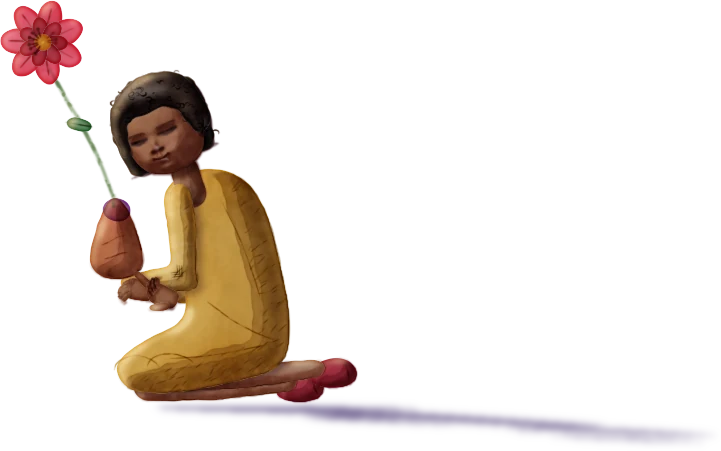
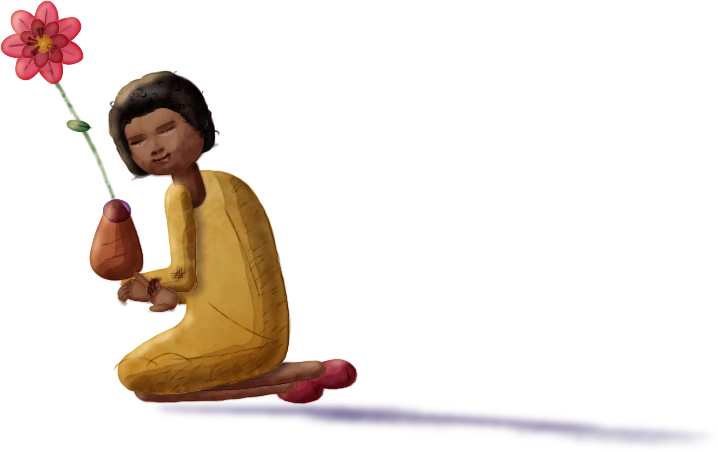
Calendario Arte design 6: last evaluator fixes, changelog and decision
Gaze in sheet directions, a slit of iris for lowered eyes, higher necklines,
the June girl's neck, the bun's tone. Evaluator r11: publishable as design 6
and favourite (June 5.5/6.5, May 5/6).

Claude-Session: https://claude.ai/code/session_01WLMKSDKQCN5ewxoWJ2uMJK

diff --git a/src/data/calendarioArteCapas.ts b/src/data/calendarioArteCapas.ts
@@ -541,43 +541,43 @@ export const CAPAS_ILUSTRACIONES: Record<string, ManifiestoCapas> = {
       {
         "id": "guitarrista",
         "nombre": "El guitarrista",
-        "src": "guitarrista.webp?v=a3c0124a",
-        "x": 0.06385,
+        "src": "guitarrista.webp?v=20d36eb1",
+        "x": 0.06357,
         "y": 0.47361,
-        "w": 0.26967,
+        "w": 0.26995,
         "h": 0.26793
       },
       {
         "id": "musica",
         "nombre": "La música",
-        "src": "musica.webp?v=6db24908",
-        "x": 0.09863,
-        "y": 0.1494,
-        "w": 0.40365,
-        "h": 0.47062
+        "src": "musica.webp?v=ddc8fa66",
+        "x": 0.0992,
+        "y": 0.1489,
+        "w": 0.40336,
+        "h": 0.47261
       },
       {
         "id": "falda",
         "nombre": "La falda-jardín",
-        "src": "falda.webp?v=a403bd7d",
-        "x": 0.36403,
-        "y": 0.35558,
-        "w": 0.34008,
+        "src": "falda.webp?v=a7fc9fde",
+        "x": 0.36431,
+        "y": 0.35608,
+        "w": 0.33979,
         "h": 0.63048
       },
       {
         "id": "bailarina",
         "nombre": "La bailarina",
-        "src": "bailarina.webp?v=69afd819",
-        "x": 0.42674,
+        "src": "bailarina.webp?v=395ed80f",
+        "x": 0.42702,
         "y": 0.16633,
-        "w": 0.13455,
+        "w": 0.13426,
         "h": 0.25647
       },
       {
         "id": "flores",
         "nombre": "Las flores que se vuelven pájaros",
-        "src": "flores.webp?v=198e4b56",
+        "src": "flores.webp?v=84c8ebb9",
         "x": 0.69612,
         "y": 0.42878,
         "w": 0.04333,
@@ -586,61 +586,61 @@ export const CAPAS_ILUSTRACIONES: Record<string, ManifiestoCapas> = {
       {
         "id": "lana",
         "nombre": "La lana",
-        "src": "lana.webp?v=f6eb67ff",
+        "src": "lana.webp?v=3a4beac2",
         "x": 0.24914,
-        "y": 0.70568,
+        "y": 0.70618,
         "w": 0.1183,
         "h": 0.16434
       },
       {
         "id": "abuela",
         "nombre": "La abuela que teje",
-        "src": "abuela.webp?v=074b3623",
+        "src": "abuela.webp?v=020143d0",
         "x": 0.12742,
-        "y": 0.68476,
-        "w": 0.32839,
-        "h": 0.31225
+        "y": 0.69024,
+        "w": 0.32326,
+        "h": 0.30627
       },
       {
         "id": "nina",
         "nombre": "La niña del barro",
-        "src": "nina.webp?v=e13d603a",
+        "src": "nina.webp?v=dd546779",
         "x": 0.58181,
-        "y": 0.75797,
-        "w": 0.20553,
-        "h": 0.2246
+        "y": 0.75747,
+        "w": 0.20468,
+        "h": 0.2251
       },
       {
         "id": "pajaro1",
         "nombre": "El pájaro coral",
-        "src": "pajaro1.webp?v=e0b568d8",
+        "src": "pajaro1.webp?v=a4f578bf",
         "x": 0.73432,
-        "y": 0.38197,
+        "y": 0.38147,
         "w": 0.03136,
-        "h": 0.04283
+        "h": 0.04333
       },
       {
         "id": "pajaro2",
         "nombre": "El pájaro turquesa",
-        "src": "pajaro2.webp?v=243737a8",
-        "x": 0.79447,
-        "y": 0.31076,
-        "w": 0.02765,
-        "h": 0.03586
+        "src": "pajaro2.webp?v=84106d88",
+        "x": 0.7939,
+        "y": 0.31026,
+        "w": 0.02851,
+        "h": 0.03635
       },
       {
         "id": "pajaro3",
         "nombre": "El pájaro dorado",
-        "src": "pajaro3.webp?v=c0fbdd8c",
-        "x": 0.85547,
-        "y": 0.25996,
-        "w": 0.02052,
-        "h": 0.03237
+        "src": "pajaro3.webp?v=0f0c51c1",
+        "x": 0.85519,
+        "y": 0.26046,
+        "w": 0.02109,
+        "h": 0.03137
       },
       {
         "id": "parra",
         "nombre": "La parra de arriba",
-        "src": "parra.webp?v=b2b5945d",
+        "src": "parra.webp?v=b5bd2518",
         "x": 0.0,
         "y": 0.0,
         "w": 0.24116,
@@ -649,20 +649,20 @@ export const CAPAS_ILUSTRACIONES: Record<string, ManifiestoCapas> = {
       {
         "id": "maceta",
         "nombre": "La maceta de geranios",
-        "src": "maceta.webp?v=066bf3b4",
+        "src": "maceta.webp?v=4bf95281",
         "x": 0.00257,
-        "y": 0.60458,
+        "y": 0.60309,
         "w": 0.17161,
-        "h": 0.38645
+        "h": 0.38795
       },
       {
         "id": "mesa",
         "nombre": "La mesa de los pinceles",
-        "src": "mesa.webp?v=31aaaf8a",
+        "src": "mesa.webp?v=d42fc23c",
         "x": 0.75627,
-        "y": 0.76394,
+        "y": 0.76494,
         "w": 0.24373,
-        "h": 0.23606
+        "h": 0.23506
       },
       {
         "id": "luz_farolillos",
@@ -677,16 +677,16 @@ export const CAPAS_ILUSTRACIONES: Record<string, ManifiestoCapas> = {
       {
         "id": "farolillos",
         "nombre": "Los farolillos de arriba",
-        "src": "farolillos.webp?v=95097c24",
+        "src": "farolillos.webp?v=a80885fe",
         "x": 0.78107,
         "y": 0.0,
         "w": 0.18985,
-        "h": 0.19821
+        "h": 0.19721
       },
       {
         "id": "marco",
         "nombre": "El borde de papel",
-        "src": "marco.webp?v=d552ffc5",
+        "src": "marco.webp?v=d6bc83ea",
         "x": 0.0,
         "y": 0.0,
         "w": 1.0,
@@ -1334,7 +1334,7 @@ export const CAPAS_ILUSTRACIONES: Record<string, ManifiestoCapas> = {
       {
         "id": "abuelo",
         "nombre": "El abuelo y la lámpara",
-        "src": "abuelo.webp?v=2c973bcf",
+        "src": "abuelo.webp?v=59ed20b4",
         "x": 0.23261,
         "y": 0.49153,
         "w": 0.13911,
@@ -1343,11 +1343,11 @@ export const CAPAS_ILUSTRACIONES: Record<string, ManifiestoCapas> = {
       {
         "id": "nina",
         "nombre": "La niña",
-        "src": "nina.webp?v=a7f02b98",
+        "src": "nina.webp?v=1a2373da",
         "x": 0.32269,
-        "y": 0.47211,
+        "y": 0.47759,
         "w": 0.11944,
-        "h": 0.29084
+        "h": 0.28536
       },
       {
         "id": "hilos",
@@ -1361,7 +1361,7 @@ export const CAPAS_ILUSTRACIONES: Record<string, ManifiestoCapas> = {
       {
         "id": "nino",
         "nombre": "El niño",
-        "src": "nino.webp?v=228d0de4",
+        "src": "nino.webp?v=4e1b63f9",
         "x": 0.48717,
         "y": 0.26643,
         "w": 0.1565,

diff --git a/design/calendario-arte/generadores/diseno4/figuras_real.py b/design/calendario-arte/generadores/diseno4/figuras_real.py
@@ -585,7 +585,7 @@ def _ojos(lz, G, skin, ojos, mira, iris, edad, luz, pelo_c, canas):
                                       R2(-ew * 1.3, -eh * 0.15)], suave=False), '#8a6a58', dens=0.26, suave=0.35)
             mx, my = mira
             ri = eh * (1.08 if edad == 'nino' else 1.0)
-            ic = R2(mx * ew * 0.35 + sin_ * ew * 0.04, my * eh * 0.3 + eh * 0.04)
+            ic = R2(mx * G.sg * ew * 0.42 + sin_ * ew * 0.04, my * eh * 0.42 + eh * 0.04)
             iris_f = Elipse(ic[0], ic[1], ri * (0.45 + 0.55 * f), ri, G.ang(0)) & alm
             lz.aguada(iris_f, _osc(iris, 0.85, '#2a1a10', 0.2), dens=0.9, tapa=1, borde=0.5, irreg=0.05, gran=0.1)
             lz.aguada(Elipse(ic[0], ic[1], ri * 0.46 * (0.45 + 0.55 * f), ri * 0.48) & alm, '#0c0605', dens=0.95,
@@ -605,10 +605,13 @@ def _ojos(lz, G, skin, ojos, mira, iris, edad, luz, pelo_c, canas):
         else:
             # lids lowered (looking down) or closed (laughing)
             if ojos == 'abajo':
-                ln = [R2(ew * t, eh * 0.12 * (1 - t * t) ** 0.9 - 0.05 * eh) for t in ts]
+                ln = [R2(ew * t, eh * 0.1 * (1 - t * t) ** 0.9 - 0.2 * eh) for t in ts]
                 vis = Poligono(ln + dn, suave=False)
                 lz.levanta(vis, cantidad=0.35, suave=0.2)
-                lz.aguada(vis, '#2a1a1a', dens=0.55, suave=0.25)
+                lz.aguada(vis, '#dccfb8', dens=0.25, suave=0.2)
+                ic = R2(mira[0] * G.sg * ew * 0.3, eh * 0.25)
+                lz.aguada(Elipse(ic[0], ic[1], eh * 0.9, eh * 0.75) & vis, _osc(iris, 0.8, '#2a1a10', 0.2), dens=0.9,
+                          tapa=1, irreg=0.05)
             else:
                 ln = [R2(ew * t, eh * 0.28 * (1 - t * t) + 0.05 * eh - 0.12 * eh * (-sin_) * t) for t in ts]
             lz.aguada(Poligono([R2(ew * t, -eh * 1.15 * (1 - t * t) ** 0.8) for t in ts] + ln[::-1], suave=True),
@@ -688,8 +691,8 @@ def _nariz(lz, G, skin, luz, edad='adulto'):
             lz.lapiz([bezier(w0, w1, w2, n=8)], piel_l, grosor=0.3, presion=0.3 if sd < 0 else 0.2, temblor=0.03)
     lz.aguada(Elipse(*G.off(G.P(0.0, vn + 0.05, 0.05), -lx * a2 * 0.04, 0), a2 * 0.18, b2 * 0.03, G.ang(0)), sc,
               dens=0.32, suave=a2 * 0.03)
-    lz.levanta(Elipse(*G.off(tip, lx * a2 * 0.03, ly * b2 * 0.02 - b2 * 0.01), a2 * 0.045, b2 * 0.025), cantidad=0.4,
-               suave=0.3)
+    lz.levanta(Elipse(*G.off(tip, lx * a2 * 0.03, ly * b2 * 0.02 - b2 * 0.01), a2 * 0.045, b2 * 0.025), cantidad=0.15,
+               suave=0.4)
     # in 3/4 the far side of the nose shows against the far cheek
     if G.tg > 0.12 and not nino:
         pts = [G.P(0.06, vb + 0.08 + (vn - 0.06 - vb - 0.08) * t, nz * t ** 1.2 + 0.02) for t in np.linspace(0.15, 1, 9)]
@@ -907,6 +910,7 @@ def _pelo_detras(lz, G, peinado, col, luz, rng, adorno):
         r_ = a2 * 0.36
         mono = Circulos([(c[0], c[1], r_), (*G.off(c, -r_ * 0.3, r_ * 0.25), r_ * 0.75)])
         volumen(lz, mono, col, luz, dens=0.92, prof=0.5, brillo=0.0, reflejo=0.0, grosor=0.35, presion=0.25)
+        lz.aguada(mono, col, dens=0.35, suave=0.4)
         osc = _osc(col, 0.55, '#1a1010', 0.3)
         vueltas = []
         for k in range(9):
@@ -1582,13 +1586,13 @@ def torso(lz, hi, hd, ci, cd, color, cuello=None, escote=0.3, tapa=1, toques=Non
     # the deep neckline was there to meet the old big round head; under a head of real size it
     # left a long bare column of neck, so the neckline sits where a real one does
     escote = min(escote, 0.55)
-    izq = [m - lado * w * 0.17 - abajo * w * 0.02, hi + abajo * w * 0.07, hi - lado * w * 0.06 + abajo * w * 0.22,
+    izq = [m - lado * w * 0.17 - abajo * w * 0.07, hi + abajo * w * 0.07, hi - lado * w * 0.06 + abajo * w * 0.22,
            hi + (ci - hi) * 0.42 - lado * w * 0.04, hi + (ci - hi) * 0.72 + lado * w * 0.05, ci - lado * w * 0.02]
-    der = [m + lado * w * 0.17 - abajo * w * 0.02, hd + abajo * w * 0.07, hd + lado * w * 0.06 + abajo * w * 0.22,
+    der = [m + lado * w * 0.17 - abajo * w * 0.07, hd + abajo * w * 0.07, hd + lado * w * 0.06 + abajo * w * 0.22,
            hd + (cd - hd) * 0.42 + lado * w * 0.04, hd + (cd - hd) * 0.72 - lado * w * 0.05, cd + lado * w * 0.02]
-    pts = izq + [(ci + cd) / 2 + abajo * w * 0.04] + der[::-1] + [m + lado * w * 0.1 + abajo * w * escote * 0.2,
-                                                                   m + abajo * w * escote * 0.3,
-                                                                   m - lado * w * 0.1 + abajo * w * escote * 0.2]
+    pts = izq + [(ci + cd) / 2 + abajo * w * 0.04] + der[::-1] + [m + lado * w * 0.1 + abajo * w * (escote * 0.2 - 0.05),
+                                                                   m + abajo * w * (escote * 0.3 - 0.04),
+                                                                   m - lado * w * 0.1 + abajo * w * (escote * 0.2 - 0.05)]
     f = Poligono([tuple(p) for p in pts])
     volumen(lz, f, color, _LUZ_ESCENA[0], dens=0.72, prof=0.5, tapa=tapa, toques=toques, espesor=w * 0.4,
             proyecta=2.5, grosor=0.4, presion=0.3, rayar=True)
@@ -1632,12 +1636,12 @@ def _cuello(lz, x, y, r, piel, base, ancho_base, giro, inclina, luz, nino):
     cy = y + math.cos(a) * kc * r
     sombra = f & Poligono([(cxs - w0, cy - r * 0.3), (cxs + w0, cy - r * 0.3), (cxs + w0, cy + r * 0.2),
                            (cxs - w0, cy + r * 0.2)], suave=False)
-    lz.aguada(sombra, _osc(piel_c, 0.78, '#5a3020', 0.25), dens=0.32, suave=0.6, gran=0.2,
+    lz.aguada(sombra, _osc(piel_c, 0.72, '#5a3020', 0.28), dens=0.42, suave=0.6, gran=0.2,
               desvanece=(cxs, cy - r * 0.05, cxs, cy + r * 0.22))
     # the two neck muscles meeting at the pit of the throat, faint
     lz.lapiz([bezier((xt - w0 * 0.38, yt + (yb - yt) * 0.4), (bx - w0 * 0.2, yb - r * 0.1), (bx - r * 0.03, yb + r * 0.02), n=8),
               bezier((xt + w0 * 0.38, yt + (yb - yt) * 0.4), (bx + w0 * 0.2, yb - r * 0.1), (bx + r * 0.03, yb + r * 0.02), n=8)],
-             _osc(piel_c, 0.62, '#4a2a2a', 0.35), grosor=0.24, presion=0.14, temblor=0.05, cortes=0.4, puntas=0.5)
+             _osc(piel_c, 0.62, '#4a2a2a', 0.35), grosor=0.22, presion=0.09, temblor=0.05, cortes=0.5, puntas=0.5)
     lp = _osc(piel_c, 0.55, '#4a2a2a', 0.4)
     lz.lapiz([bezier((bx - r * 0.08, yb + r * 0.04), (bx - r * 0.3, yb - r * 0.02), (bx - r * 0.56, yb + r * 0.05), n=10),
               bezier((bx + r * 0.08, yb + r * 0.04), (bx + r * 0.3, yb - r * 0.02), (bx + r * 0.56, yb + r * 0.05), n=10)],

diff --git a/design/calendario-arte/generadores/diseno4/personajes_real.py b/design/calendario-arte/generadores/diseno4/personajes_real.py
@@ -125,7 +125,7 @@ def nina06(lz):
         lz.gouache(Elipse(x, y, 1.9), '#fff3cf', alfa=0.9, irreg=0)
     F.brazo3(lz, (634, 482), (650, 524), (648, 560), 16, '#f2c04a', P2, luz, 'corta',
              mano=dict(ang=95, gesto='relajada', lado=1, tam=27), semilla=24)
-    F.cuello3(lz, (618, 436), 25, (616, 476), P2, luz, giro=-0.5, inclina=-14)
+    F.cuello3(lz, (618, 441), 25, (616, 476), P2, luz, giro=-0.5, inclina=-8)
     F.torso3(lz, (592, 478), (640, 480), (598, 526), (634, 528), '#f2c04a', luz, cintura=0.95, semilla=25)
     lz.lapiz([bezier((604, 478), (616, 488), (630, 479), n=12)], linea_de('#f2c04a', 0.55), grosor=0.55, presion=0.45)
     pechera = Poligono([(597, 528), (602, 497), (631, 499), (636, 530)], suave=False)
@@ -136,10 +136,10 @@ def nina06(lz):
         lz.aguada(Elipse(*b_, 1.6), '#f6e2b0', dens=0.9, tapa=1, irreg=0.1)
     lz.lapiz([[(599, 512), (634, 514)]], linea_de(TEAL6, 0.5), grosor=0.42, presion=0.32, temblor=0.2)
     lz.lapiz([bezier((596, 528), (616, 532), (637, 530), n=12)], linea_de(TEAL6, 0.6), grosor=0.65, presion=0.5)
-    F.cabeza3(lz, 618, 434, 25, P2, '#2a1a14', 'afro', luz, giro=-0.5, inclina=-8, edad='nino', ojos='abiertos',
+    F.cabeza3(lz, 618, 439, 25, P2, '#2a1a14', 'afro', luz, giro=-0.5, inclina=-8, edad='nino', ojos='abiertos',
               boca='sonrisa', mira=(-0.9, 0.6), pendiente='#f2b630', iris='#4a2a1c', semilla=26)
     # the bulb's warm light: an edge on her left cheek and temple, not a haze over the face
-    lz.luz(Trazo([(600, 424), (598, 438), (600, 452)], (3.5, 4.5, 3.0)), '#fad6a0', fuerza=0.34, suave=1.6)
+    lz.luz(Trazo([(600, 429), (598, 443), (600, 457)], (3.5, 4.5, 3.0)), '#fad6a0', fuerza=0.34, suave=1.6)
     F.brazo3(lz, (596, 486), (574, 530), (556, 498), 16, '#f2c04a', P2, luz, 'corta',
              mano=dict(ang=-152, gesto='abierta', abre=0.6, lado=1, tam=30), semilla=27)
 
@@ -324,7 +324,7 @@ def abuela(sombra=True):
         f = Trazo([(x0, 760), (x0 + (6 if x0 > 290 else -6), 818)], (6, 5), suave=False)
         FR.volumen(lz, f, '#9a6a4a', luz, dens=0.75, prof=0.45, linea=False, duro=0.5)
     FR.volumen(lz, taburete, '#b8845a', luz, dens=0.75, prof=0.4, rayar=True, grosor=0.4, presion=0.3)
-    J = dict(cabeza=(298, 614, 29), hi=(268, 660), hd=(326, 664), ci=(272, 746), cd=(320, 748),
+    J = dict(cabeza=(298, 619, 29), hi=(268, 660), hd=(326, 664), ci=(272, 746), cd=(320, 748),
              pierna_i=[(282, 748), (338, 760), (336, 818)], pierna_d=[(308, 752), (360, 768), (362, 822)],
              pie_i=0, pie_d=0)
     P5.figura(lz, J, dict(camisa='#8d73b0', falda='#5f8f8a', piel='piel1', zapato='#6e4c3c', cuello=0.55, pliegues=True,

diff --git a/memory/08_CHANGELOG.md b/memory/08_CHANGELOG.md
@@ -11867,3 +11867,43 @@ Eugenio: «Asígnale un peso específico, cada ciudadano tiene 100 puntos, y pue
 - `planos.py` (new): builds an illustration as a stack of sprites, each treated by its plane. `.claude/agents/evaluador-ilustraciones.md` (new): the blind evaluator, used for every round. `encargos/PLANOS.md` (new): the rule, in Spanish. DIBUJANTE.md and the illustrations README point to both.
 - Evaluator rounds: June 5, May 4. Final verdict: «lista para publicar como diseño nuevo», June 7.5/10 and May 7/10. Open polish it named: the bulb could light the girl's hand more, the shade could cover the bulb, the forearm with the phone needs volume (June); the walled town needs window detail, the painter vs the puppet-theatre audience scale is still uneven, and the paving ovals are regular (May).
 - Design 4 of both months checked byte-identical after the library changes (acuarela `TAPA`, figuras_v3 `MIRA_FUERZA`, personajes_06 `bombilla=`).
+
+## 2026-11-16 — Calendario Arte: design 6 for May and June, people as a realistic watercolour, and the new favourite
+
+- Eugenio: «cambia el estilo del dibujo de ambas, para que los personajes sean más realistas, ahora parece mucho que lo ha pintado un niño, tiene que ser una acuarela realista, mantén todos los elementos, pero cambia el estilo, y para no perder el diseño anterior, añádelo en un nuevo diseño y marca ese nuevo como favorito».
+- New **design 6** for May (`mes-05-f`) and June (`mes-06-f`). It is design 5's scene with every element and plane in place and the people repainted:
+  - real proportions (smaller heads, children's faces for the children);
+  - faces modelled by the light, with eyes, lips and ears;
+  - necks that open into the shoulders;
+  - hands about three quarters of the face that hold what they hold;
+  - elbows, knees and folds;
+  - watercolour glazes and coloured-pencil hatching instead of flat washes and outlines.
+- Figures redrawn, not only repainted:
+  - the girl with the clay, kneeling on her heels;
+  - the grandmother's lap with its knees, and her needles held in her fingers;
+  - the boy's weight on a bent knee;
+  - the grandfather's hand round the lamp;
+  - the hand with the phone;
+  - the dancer's pointe foot;
+  - the small people of the square (painter, children at the puppet theatre, neighbours at the café).
+- Other changes in design 6:
+  - the storks have bodies;
+  - the painter's canvas is one canvas;
+  - the bulb and the sun light the people.
+- Design 6 is starred as the favourite of May and June, so it is the one printed. Designs 4 and 5 are unchanged: design 5 re-renders pixel-identical.
+- Code: `figuras_real.py` (the realistic painters, swapped in for one run with `activar()`), `personajes_real.py` (the redrawn figures), `mes-05-f.py` / `mes-06-f.py`, and an optional irregular rim light in `planos.py` (off by default).
+- Evaluator rounds:
+
+  | Round | June realism / overall | May realism / overall | What it said |
+  |---|---|---|---|
+  | r3 | 3 / 5.5 | 3 / 5.5 | Mannequins with masks |
+  | r6 | 4 / 5.5 | 3.5 / 5.5 | |
+  | r9 | 4 / 5 | 4 / 5.5 | A hard jaw shadow that read as a collar |
+  | r11 | 5.5 / 6.5 | 5 / 6 | «Se pueden publicar ya como diseño 6 y marcarse como favorito» |
+
+  The evaluator's honest note at r11: it no longer looks drawn by a child, but the people still read more as painted wooden figures than as a fully realistic watercolour. Open polish it named:
+  - the grandfather's gripping fingers;
+  - the boy's eyes;
+  - the flat shading of jeans and jackets;
+  - the girl's calves;
+  - the grandmother's and the clay girl's hands.
